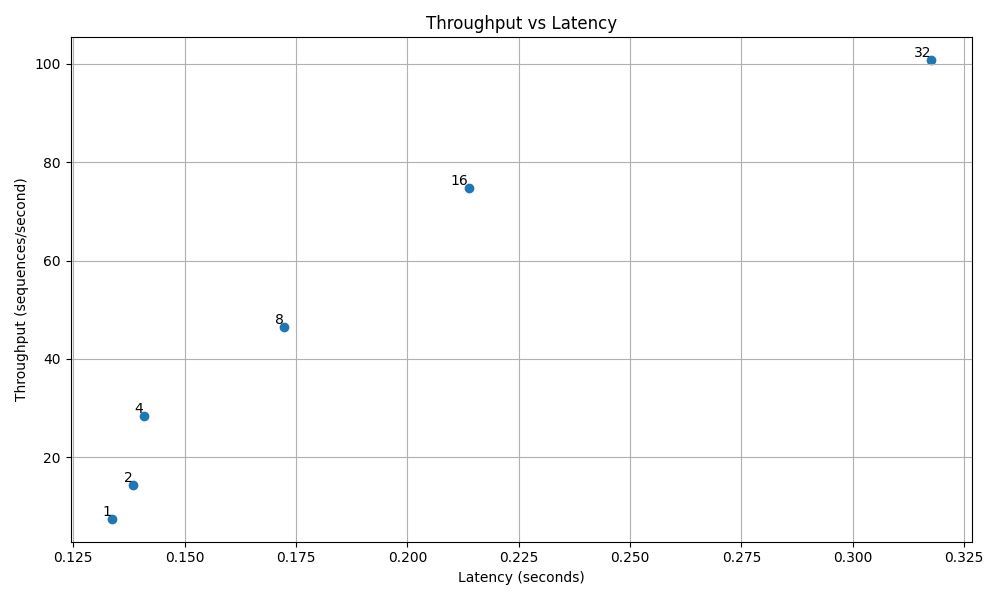
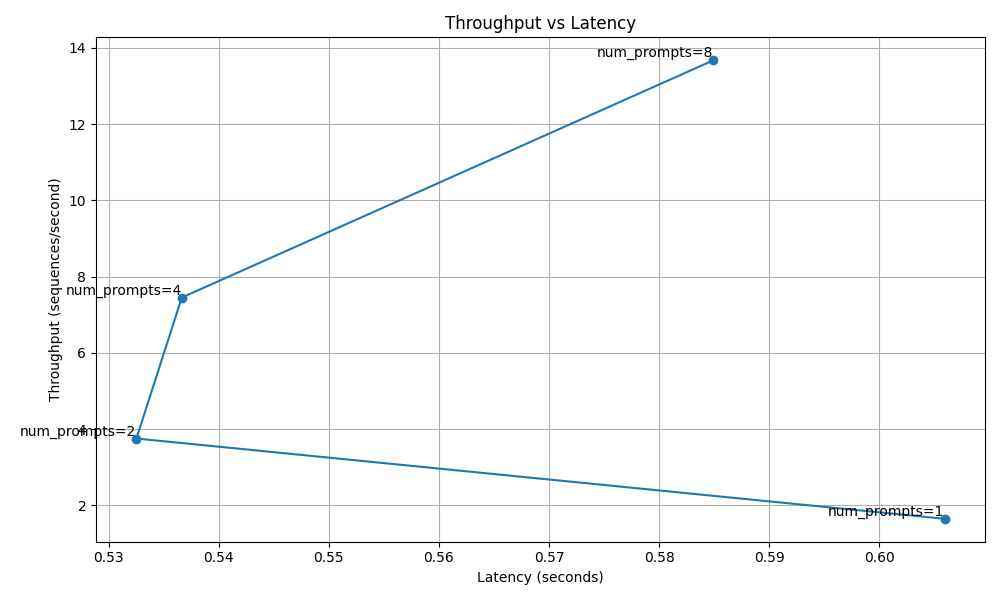
fixed graph

diff --git a/vllm_profiling.py b/vllm_profiling.py
@@ -58,12 +58,12 @@ def create_throughput_latency_plot(results):
     # Create figure
     plt.figure(figsize=(10, 6))
 
-    # Scatter plot for throughput vs latency
-    plt.scatter(latencies, throughputs)
+    # Line plot connecting the dots
+    plt.plot(latencies, throughputs, marker='o', linestyle='-')
 
     # Label each point with the number of prompts
     for i, num_prompt in enumerate(num_prompts):
-        plt.text(latencies[i], throughputs[i], str(num_prompt), ha='right', va='bottom')
+        plt.text(latencies[i], throughputs[i], f"num_prompts={num_prompt}", ha='right', va='bottom')
 
     # Set axis labels and title
     plt.xlabel('Latency (seconds)')
@@ -93,7 +93,7 @@ if __name__ == "__main__":
         exit(1)
 
     # Define numbers of prompts to test (starting small)
-    num_prompts_list = [1, 2, 4, 8, 16, 32]  # Start with smaller numbers
+    num_prompts_list = [1, 2, 4, 8]  # Start with smaller numbers
     results = []
 
     print("\nRunning benchmarks...")
